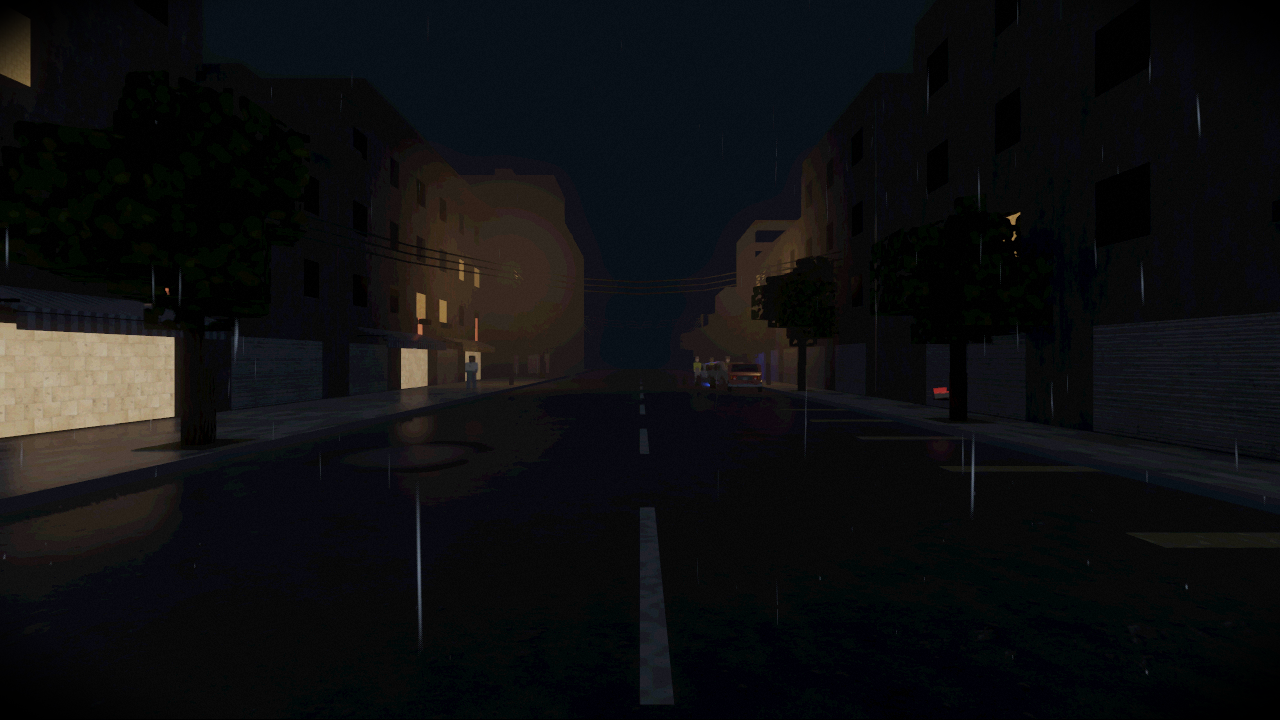
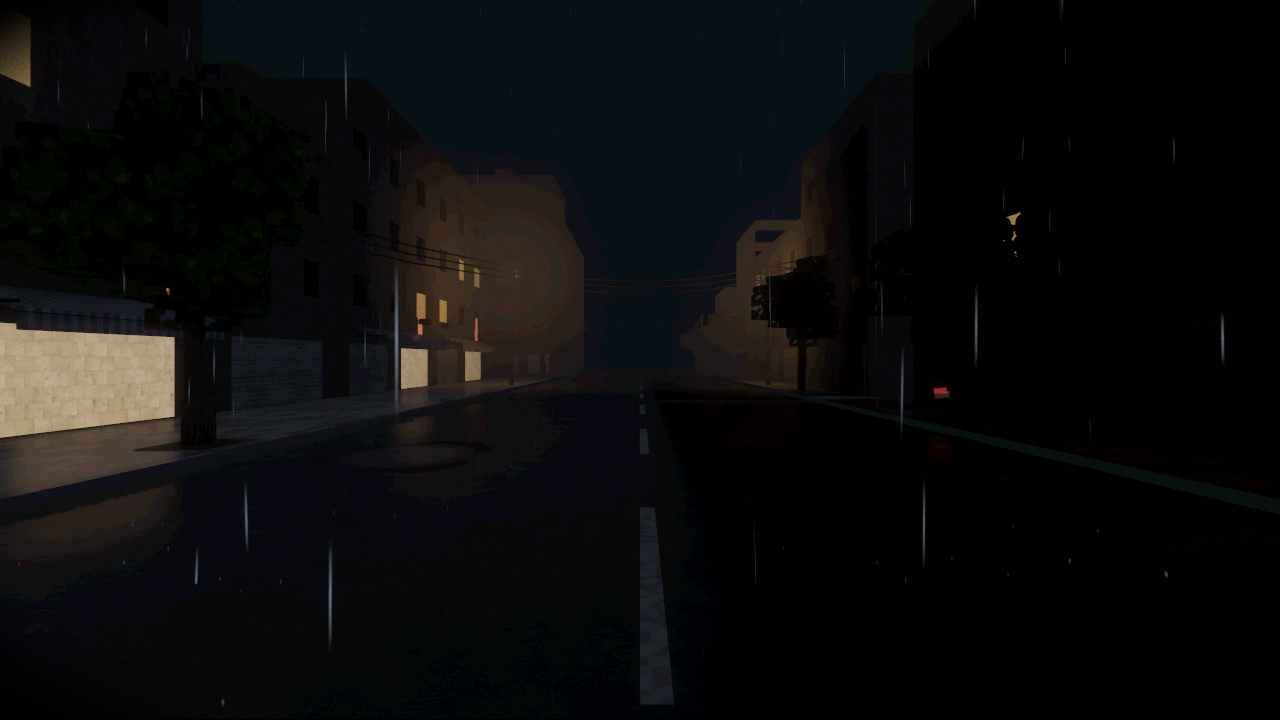
Fase 4 fechada: sondas de reflexo que seguem o jogador
A14  verde na poca vindo de FORA da tela   +0,210  (sem sonda: -0,008)
    andando em 4K, tudo ligado                 7,1 ms, 140 fps
    engasgos                                   3, e sao os da largada
    regressao visual                           A2 OK nos dois presets

O reflexo de tela so mostra o que esta na tela: a poca reflete o poste enquanto
ele aparece e o apaga quando ele sai do quadro. A sonda guarda o arredor num cubo
e devolve o que saiu.

Uma sonda por chunk nao deu
---------------------------
A primeira versao montava a `ReflectionProbe` junto com o chunk. Cada uma custa
seis renderizacoes da cena no quadro em que nasce, e a rota passou a ter OITO
engasgos, cinco deles em quadro de chunk novo — o que o criterio A3 proibe.
Reduzir o atlas de reflexo de 256 para 128 px nao mudou nada: o custo nao e de
resolucao, sao seis varreduras da cena.

`SondasReflexo` (novo) troca o desenho: quatro sondas seguem o jogador e no
maximo UMA se refaz por quadro. O custo deixa de crescer com o tamanho da cidade
e passa a ser constante.

Na bancada, o painel verde fica ACIMA da poca
---------------------------------------------
Atras da camera nao serve, por geometria: o raio que sai do olho, bate na poca e
reflete continua indo para a FRENTE — a poca mostra a parede do fundo, nunca o
que esta as costas de quem olha. Acima e o lugar certo: a camera nao o ve (46
graus, fora do meio campo) e a poca ve.
[…]

diff --git a/tools/regressao_visual.py b/tools/regressao_visual.py
@@ -63,6 +63,10 @@ def rodar(rota_nome, rota, preset, destino, resolucao):
     os.makedirs(destino, exist_ok=True)
     cmd = [GODOT, "--path", JOGO, "--resolution", resolucao, "--",
            "--pular-menu", "--pular-abertura",
+           # Sem transito e sem multidao: com luz global e sondas de reflexo, um
+           # carro que passa muda 22% dos blocos da avenida entre duas execucoes
+           # da MESMA build. Quem mede desempenho roda sem esta flag.
+           "--rota-sem-vida",
            "--rota=" + rota_nome, "--estilo=" + preset,
            "--rota-fotos=" + destino.replace("\\", "/")]
     cmd += rota.get("flags", [])

diff --git a/PLANO_AAA_4K.md b/PLANO_AAA_4K.md
@@ -559,7 +559,7 @@ própria (grama, areia, pedra do parque), que escalariam um a um sem ganho que
 pague o risco de mexer na arte. E 2K, se um dia fizer falta: é baixar o zip 2K e
 rodar de novo.
 
-### Fase 4 — Luz global e sombras · G · **A11, A12 e A13 em 16/09/2026**
+### Fase 4 — Luz global e sombras · G · **FEITA em 16/09/2026**
 
 - **SDFGI** na cidade (letreiros e postes emissivos tingindo a rua), com
   distância e células por preset.
@@ -637,7 +637,8 @@ mais luz do que a oclusão tirava.
 |---|---|
 | **A11** quina mais escura com SSAO | **16,7%** (alvo 15%) |
 | **A12** viés vermelho do chão ao lado do letreiro | **+0,190** (era 0,111 sem GI) |
-| **A13** dureza da borda da sombra | **1,61× mais macia** com penumbra |
+| **A13** dureza da borda da sombra | **1,45× mais macia** com penumbra |
+| **A14** verde na poça vindo de fora da tela | **+0,210** (era −0,008 sem sonda) |
 
 **Quatro erros de bancada antes de cada número.** A oclusão age sobre luz
 **ambiente**: com o sol dominando (2,2 contra 0,3), ela mexia em 0,5% do que se
@@ -665,9 +666,31 @@ não se mexe (p95 39,8 → 41,1) — a sombra ganha leitura e o peso da noite fi
 **A2 OK nos dois presets**, e o PS1 não vê nada disso: lá nenhuma luz projeta
 sombra, e o `FogController` continua desligando tudo.
 
-**O que falta da Fase 4:** o **A14** (sondas de reflexo), que é trabalho de nó na
-cena e não de ambiente — uma `ReflectionProbe` por quadra, para a poça continuar
-refletindo o que saiu da tela.
+**A14 — sondas de reflexo, fechado no mesmo dia.** Na bancada, um painel verde
+fica **acima** da poça, fora do enquadramento: com sonda ele aparece no reflexo
+com **+0,210** de viés de cor; sem ela, nada (−0,008). Atrás da câmera não serve,
+por geometria — o raio que sai do olho, bate na poça e reflete continua indo para
+a frente, e a poça mostra a parede do fundo, nunca o que está às costas de quem
+olha.
+
+**Uma sonda por chunk não deu.** A primeira versão montava a `ReflectionProbe`
+junto com o chunk: cada uma custa seis renderizações da cena no quadro em que
+nasce, e a rota passou a ter **oito engasgos, cinco em quadro de chunk novo** —
+o que o A3 proíbe. Reduzir o atlas de reflexo de 256 para 128 px não mudou nada,
+porque o custo não é de resolução. `SondasReflexo` (novo) troca o desenho: **quatro
+sondas seguem o jogador** e no máximo **uma se refaz por quadro**. O custo deixa
+de crescer com a cidade.
+
+| Andando na cidade, 4K, tudo ligado | |
+|---|---|
+| Quadro | **7,1 ms** (140 fps) |
+| Engasgos ≥ 33 ms | **3**, e são os da largada |
+
+**A regressão passou a capturar sem trânsito e sem multidão** (`--rota-sem-vida`).
+Com luz global e sondas, um carro que passa deixou de ser detalhe no canto: o
+farol dele rebate na parede, entra na sonda, e duas execuções da **mesma** build
+passaram a diferir em 7,3/255 sobre 22% dos blocos da avenida. Quem mede
+desempenho continua rodando com a rua viva — ali o trânsito é parte do custo.
 
 ### Fase 5 — Pós, céu e decalques · M
 
